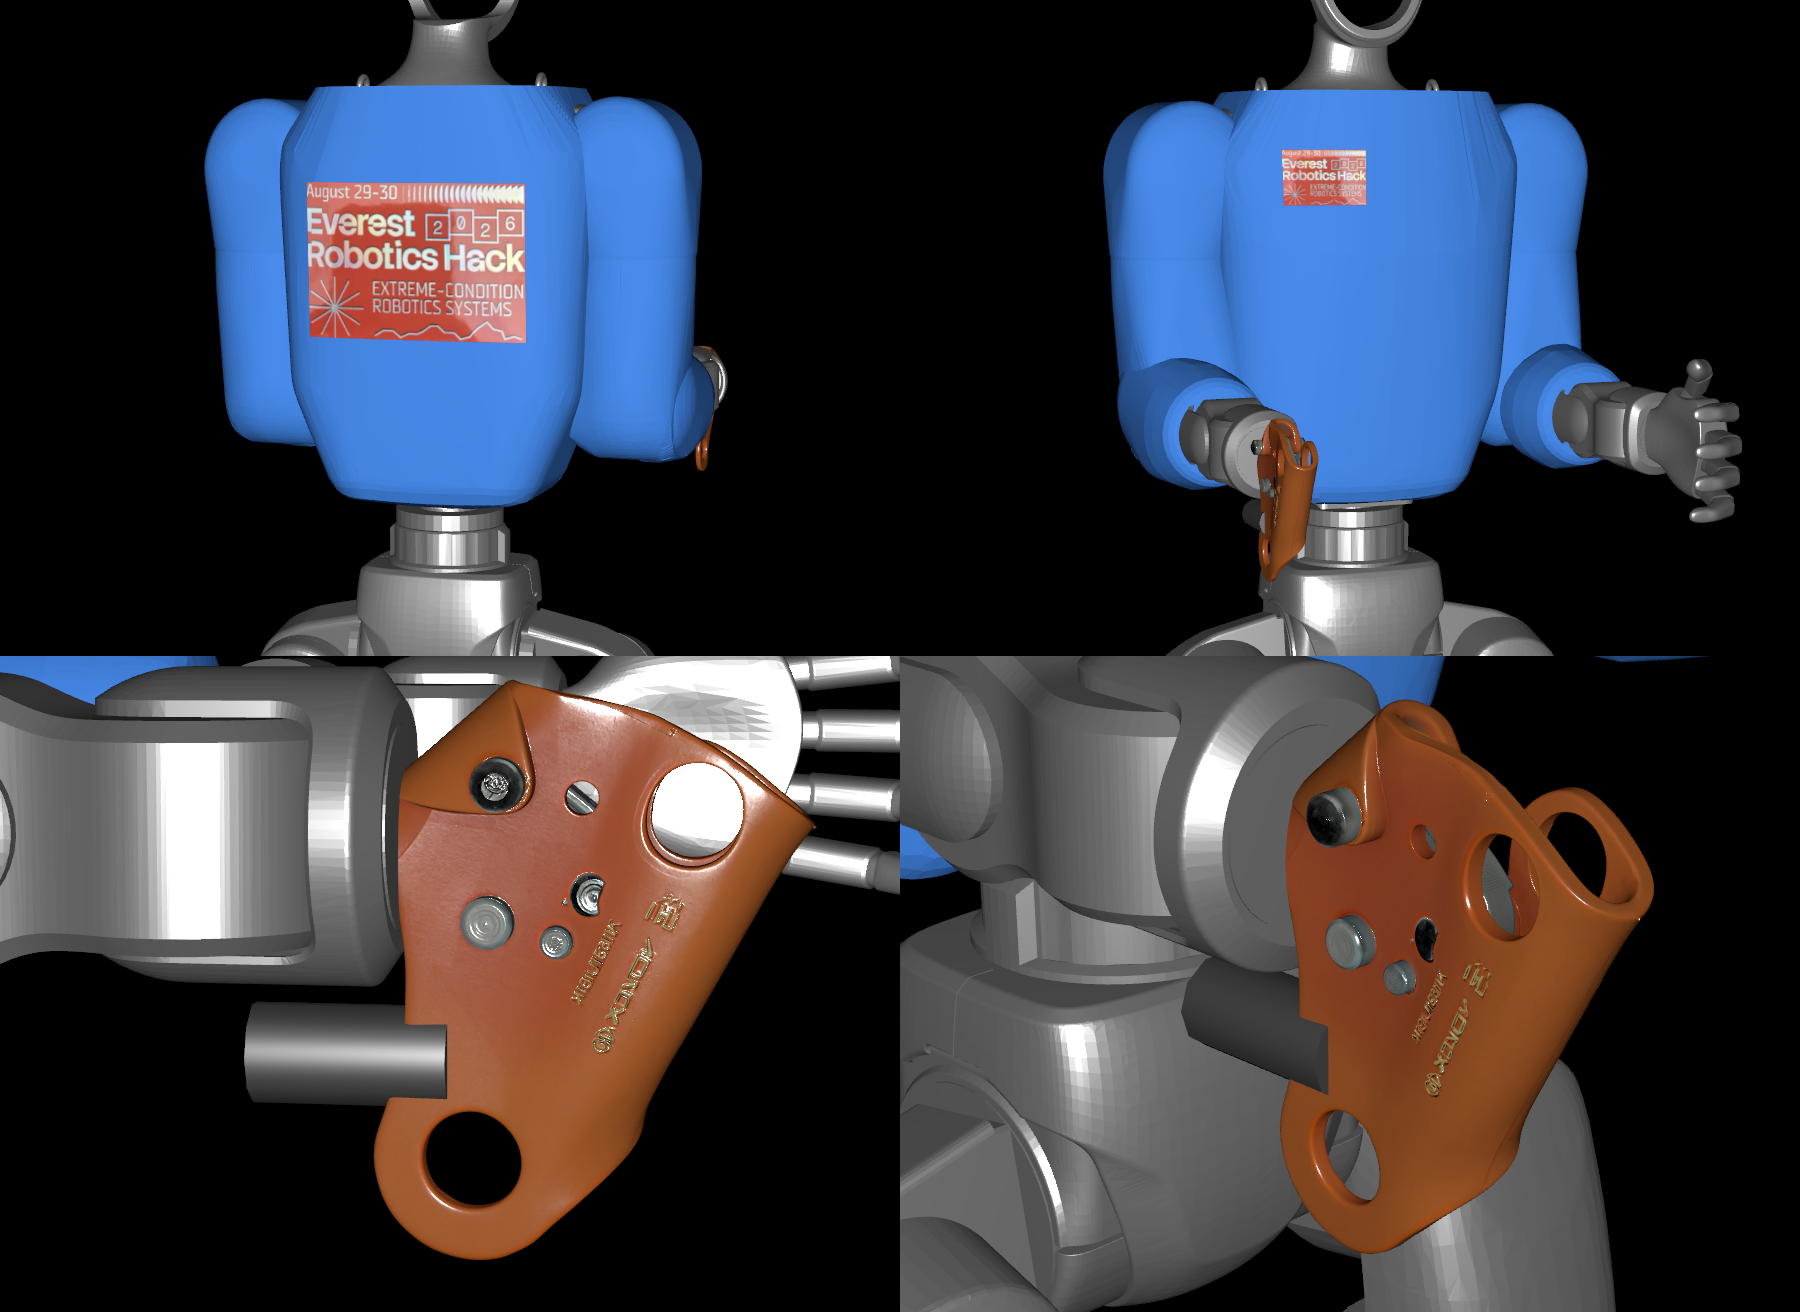
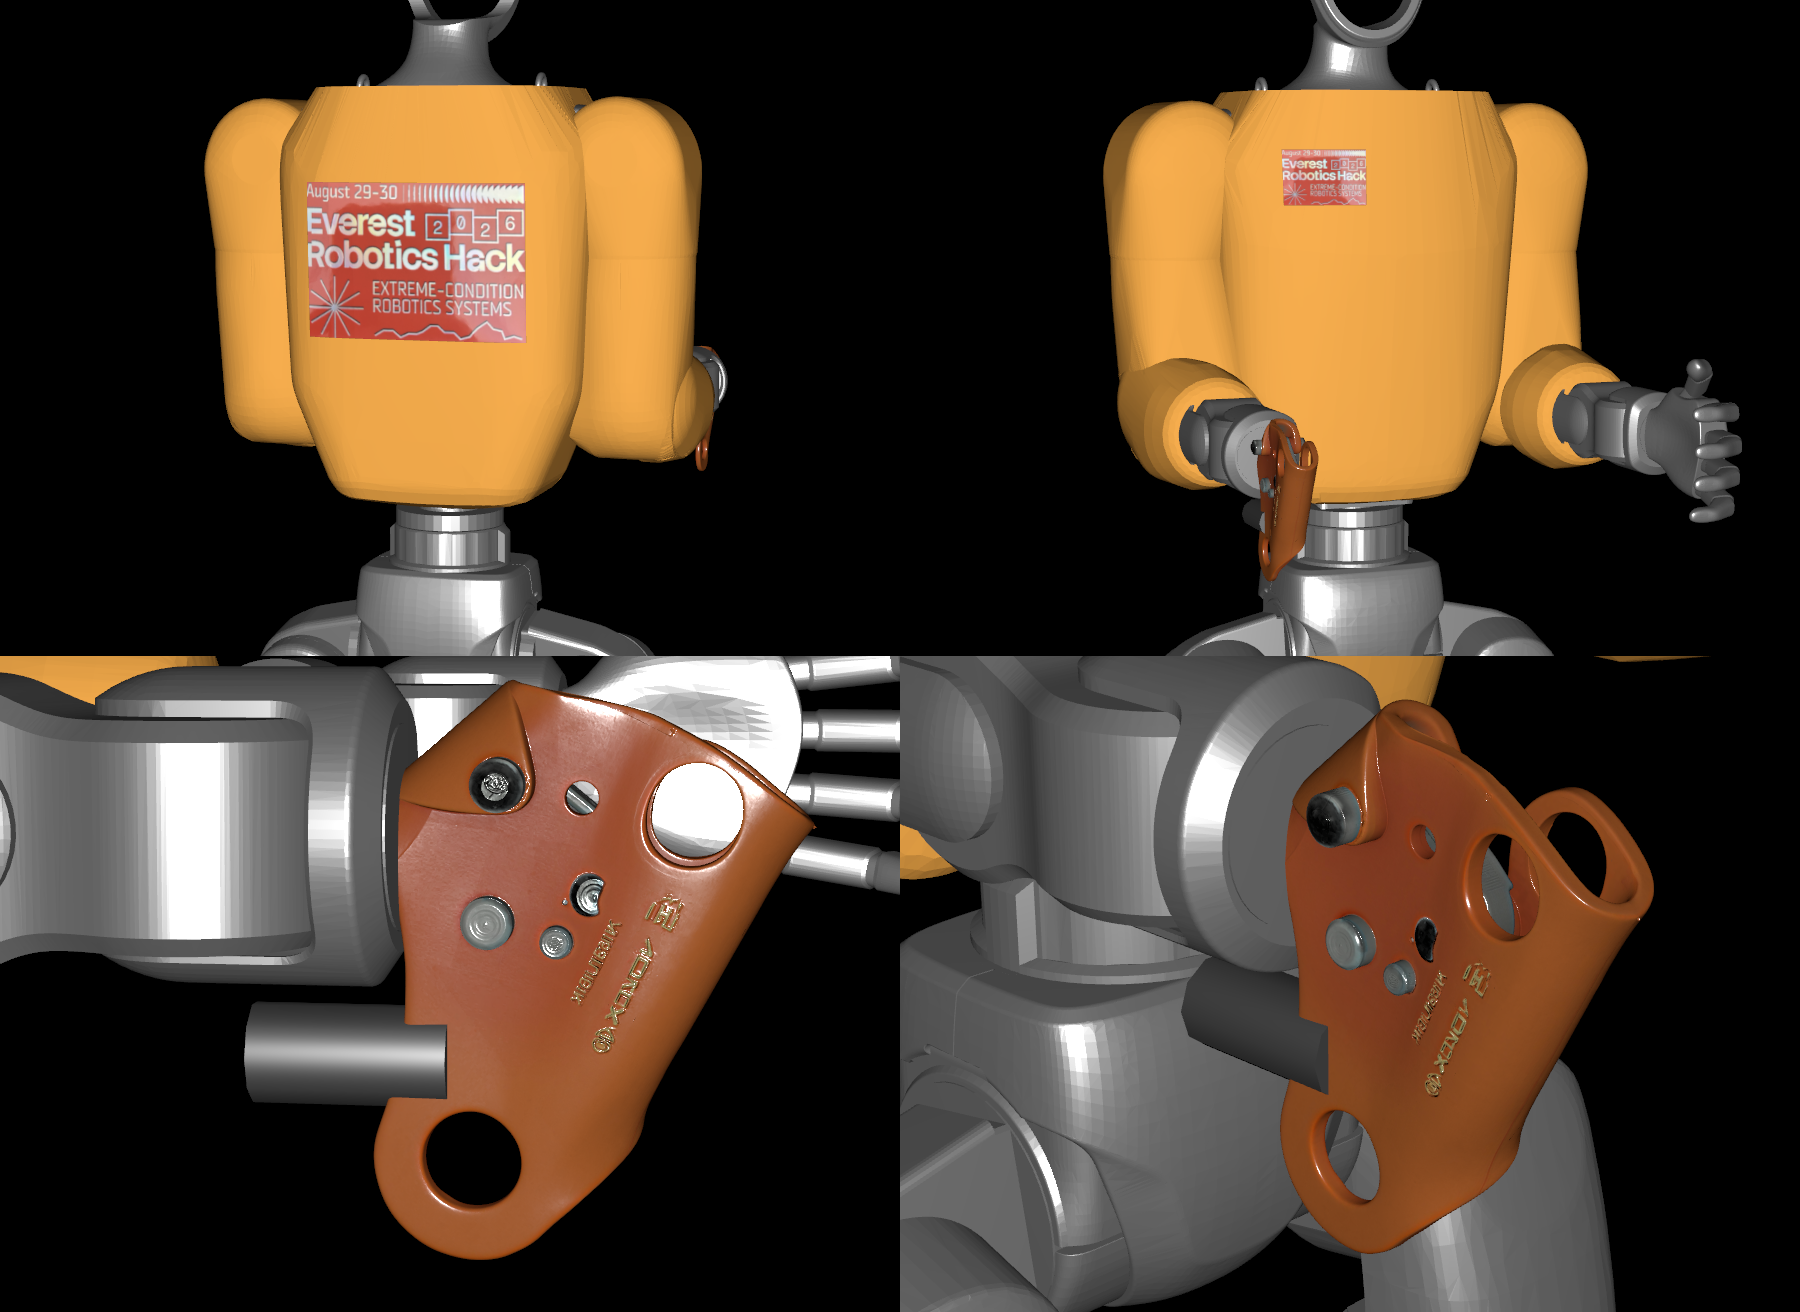
Jacket colour: expedition orange
Claude-Session: https://claude.ai/code/session_01Kj5So1s4xrTsHeTeJU72py

diff --git a/assets/robots/g1/build_g1_usd.py b/assets/robots/g1/build_g1_usd.py
@@ -31,7 +31,7 @@ def fetch_menagerie():
 
 # ------------------------------------------------------------------ gear spec
 # link -> (color, inflate_m, name)  — a shell is the link's convex hull pushed out along its normals
-JACKET_BLUE = (0.05, 0.25, 0.85)
+JACKET_BLUE = (0.95, 0.42, 0.06)   # expedition orange (name kept for the gear table)
 BOOT_YELLOW = (0.95, 0.80, 0.05)
 BOOT_TRIM   = (0.10, 0.10, 0.10)
 BOOT_FRICTION = 0.8  # stock menagerie = 0.6. Keep moderate: higher grip changes slip dynamics -> retrain the policy.
